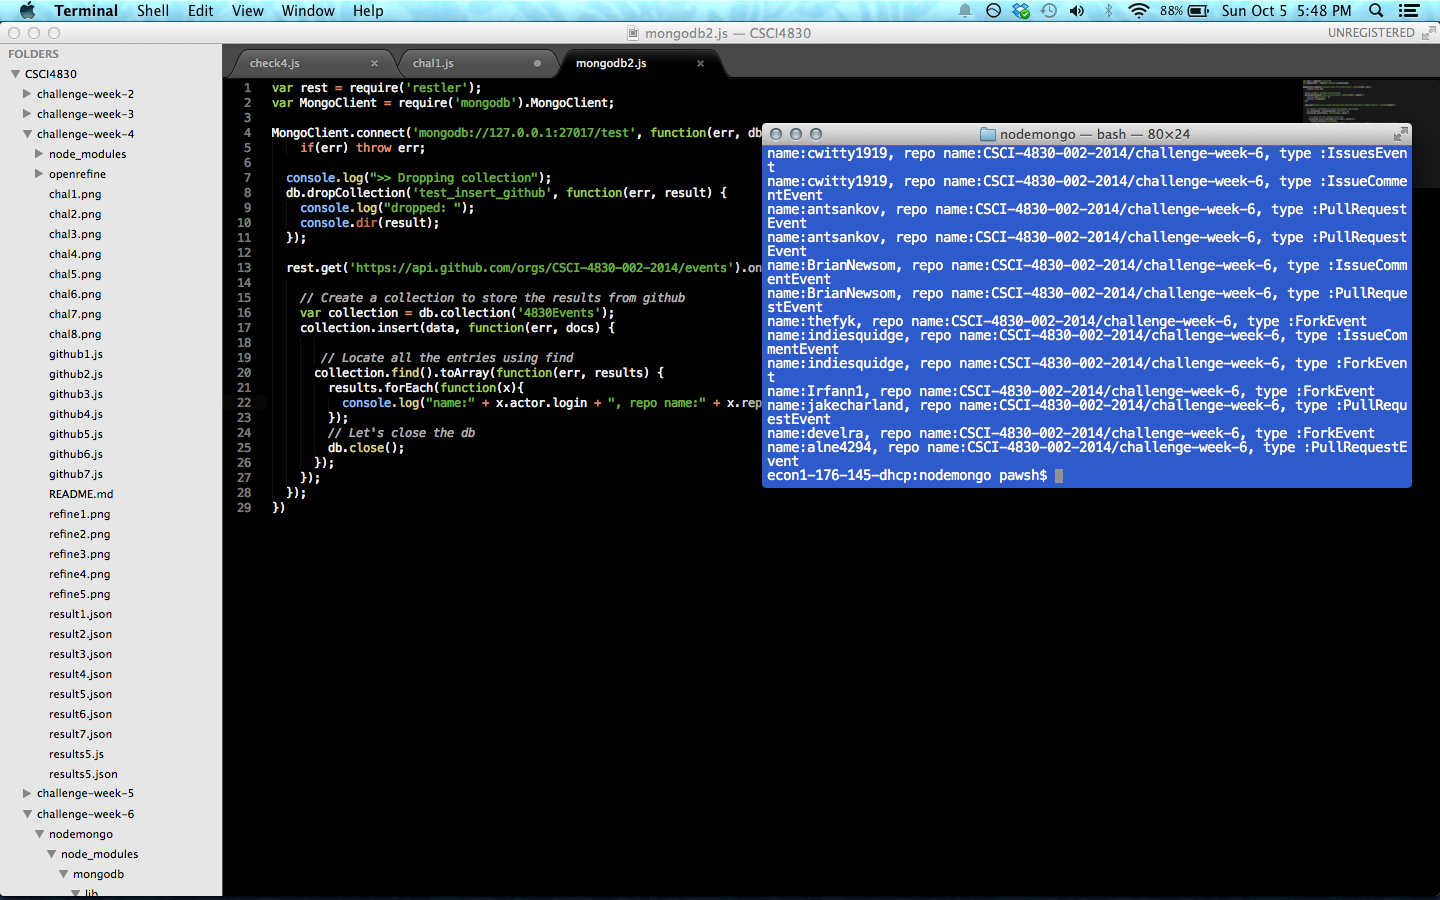
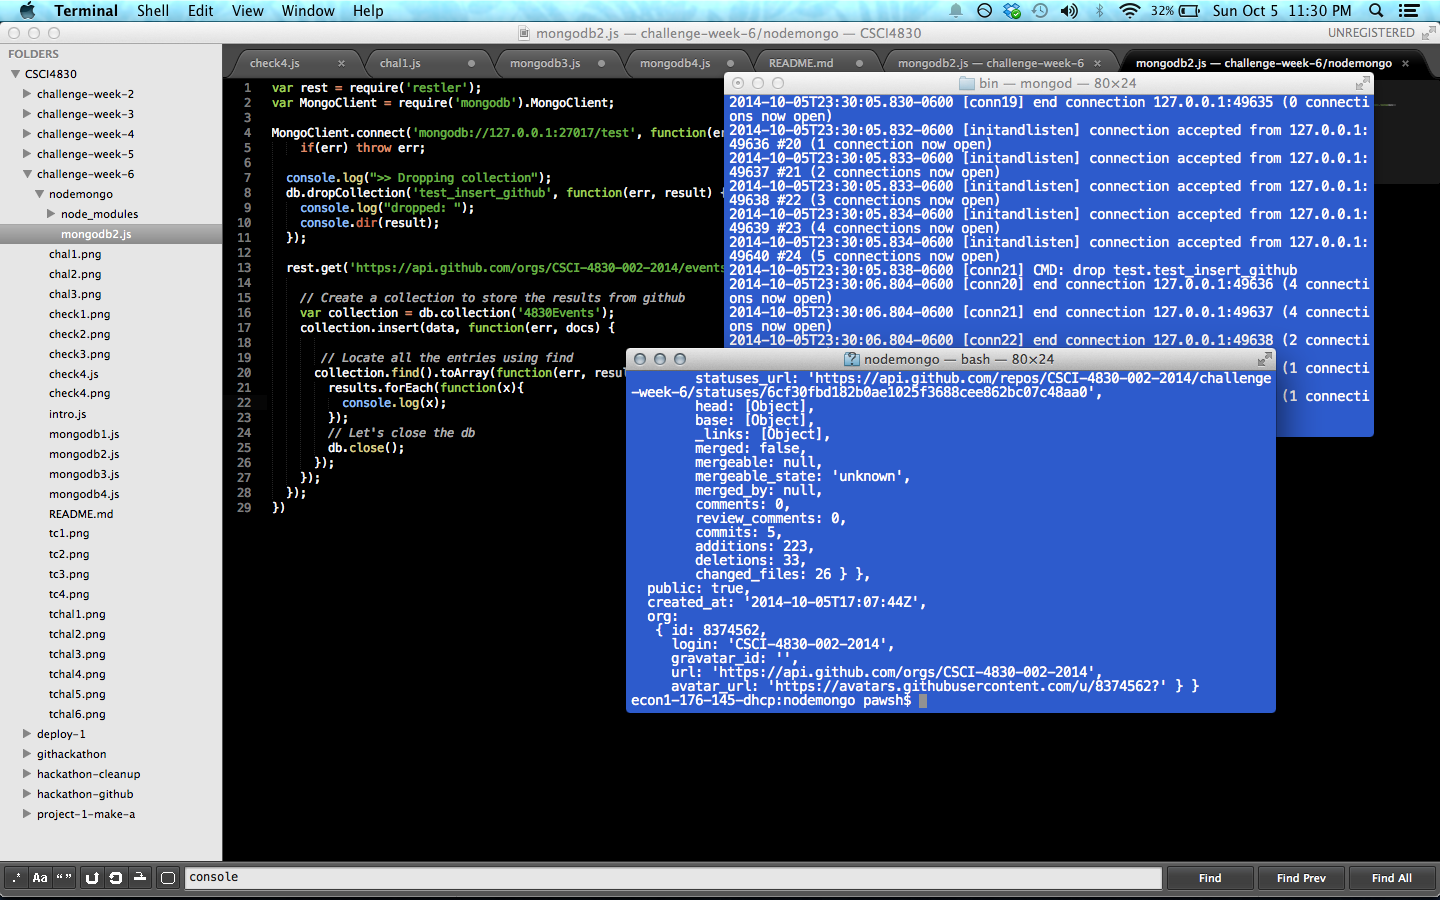
fin

diff --git a/nodemongo/mongodb2.js b/nodemongo/mongodb2.js
@@ -11,7 +11,6 @@ MongoClient.connect('mongodb://127.0.0.1:27017/test', function(err, db) {
   });
  
   rest.get('https://api.github.com/orgs/CSCI-4830-002-2014/events').on('complete', function(data) {
-    console.log(data)
  
     // Create a collection to store the results from github
     var collection = db.collection('4830Events');
@@ -20,7 +19,7 @@ MongoClient.connect('mongodb://127.0.0.1:27017/test', function(err, db) {
        // Locate all the entries using find
       collection.find().toArray(function(err, results) {
         results.forEach(function(x){
-          console.log("name:" + x.name + ", owner.login:" + x.owner.login);
+          console.log(x);
         });
         // Let's close the db
         db.close();

diff --git a/README.md b/README.md
@@ -54,43 +54,43 @@ NoSQL has no fixed schema, you can scale horizontally and in NoSQL you can modif
 
 ![image](tchal1.png?raw=true)
 
-{{Miami, Florida and Atlanta, Georgia were two big cities that did not turn a huge profit. }}
+Miami, Florida and Atlanta, Georgia were two big cities that did not turn a huge profit.
 
 ### 2 (5 points)
 
 ![image](tchal2.png?raw=true)
 
-{{The Corporate Customer segment and technology department had the highest total profit which was 1.3 million.}}
+The Corporate Customer segment and technology department had the highest total profit which was 1.3 million.
 
 ### 3 (5 points)
 
 ![image](tchal3.png?raw=true)
 
-{{France and Korea had similar sales for sales. France struggled in sales for office supplies while Korea had bad sales in Furniture.}}
+France and Korea had similar sales for sales. France struggled in sales for office supplies while Korea had bad sales in Furniture.
     
 ### 4 (5 points)
 
 ![image](tchal4.png?raw=true)
 
-{{one-paragraph-discussion-of-your-answer}}
+For Delivery Truck/Consumer combination, Redding, CA is generating negative profit. For Regular Air/Home Office, Bozeman, MT is losing a huge amount of money. Galesburg IL is losing money for Delivery Truck Small Businesses. Ft. Collins, CO is losing profit with Delivery/Small Business. 
 
 ### 5 (5 points)
 
 ![image](tchal5.png?raw=true)
 
-{{Texas significantly outperformed California in consumer total profits.}}
+Texas significantly outperformed California in consumer total profits.
 
 ### 6 (5 points)
 
 ![image](tchal6.png?raw=true)
 
-{{Definitely, some states like Montana and Missouri have significantly higher shipping by truck cksts. }}
+Definitely, some states like Montana and Missouri have significantly higher shipping by truck costs.
 
 ### 7 (5 points)
 
-![image](image.png?raw=true)
+![image](tchal7.png?raw=true)
 
-{{one-paragraph-discussion-of-your-answer}}
+Comparatively, Colorado has higher sales than similar states in Storage & Organization catergory, while it had much lower sales than similar states in office machines.
 
 
 # MongoDB 1
